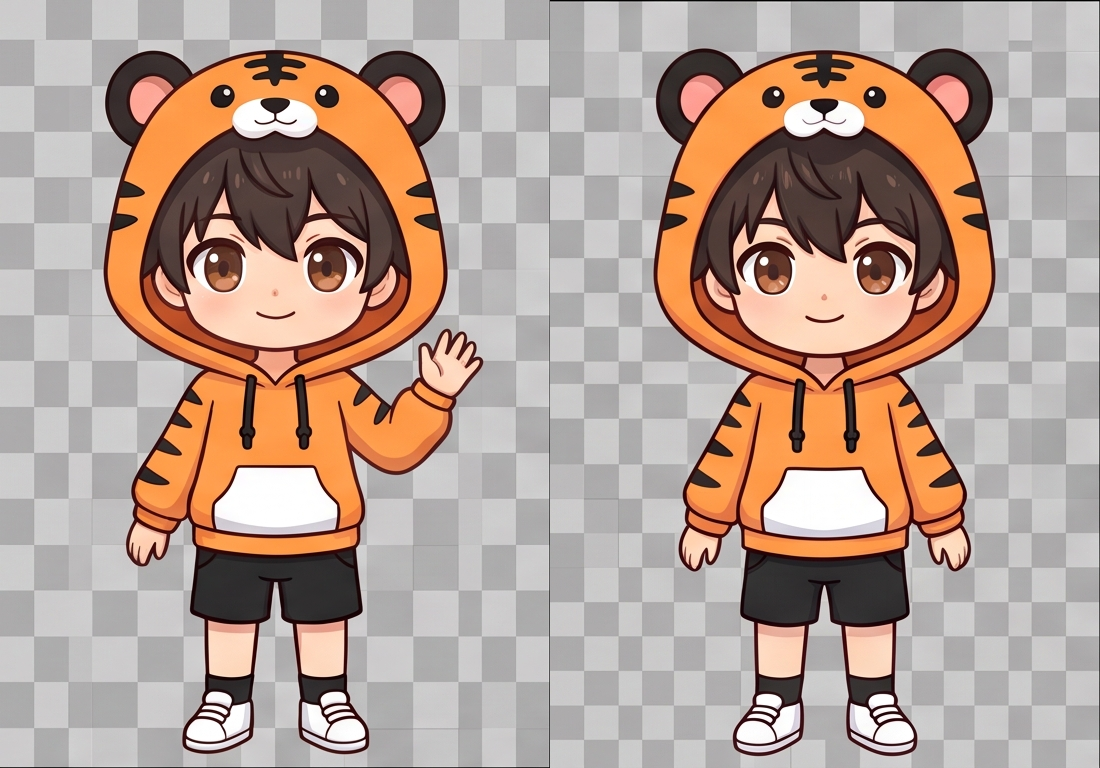
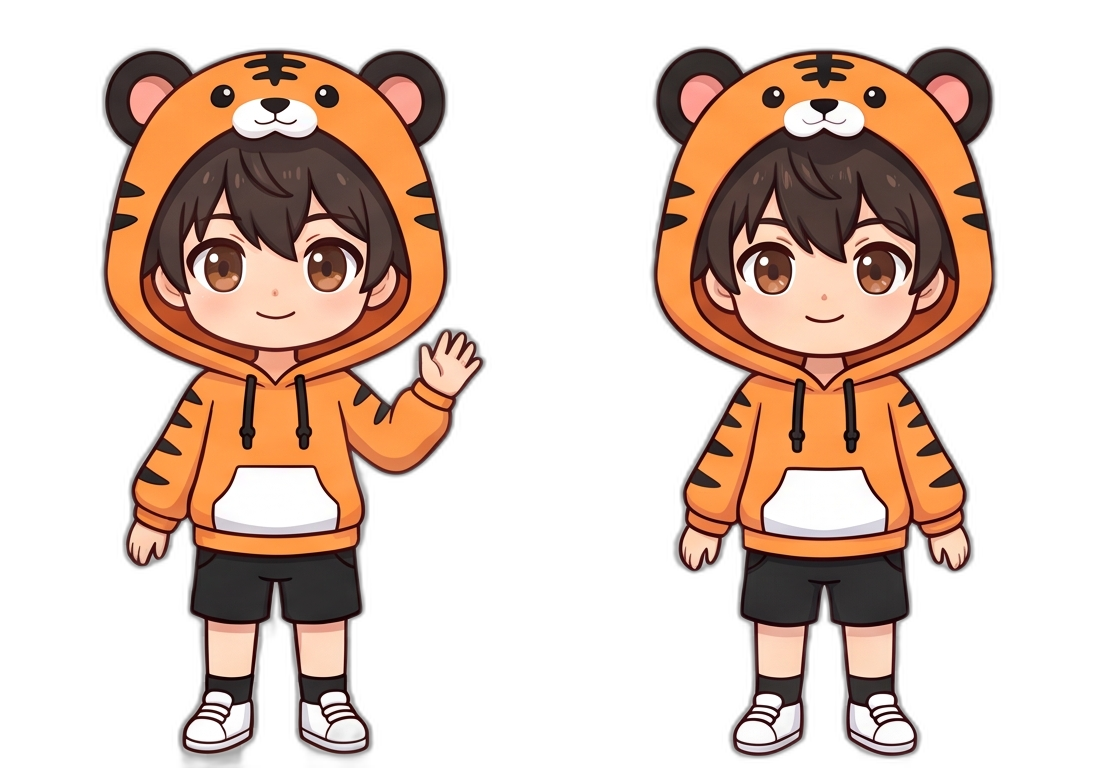
feat: update character idle/wave assets and integrate task status into HomeView companion state

diff --git a/apps/web/src/components/home/HomeView.tsx b/apps/web/src/components/home/HomeView.tsx
@@ -452,20 +452,28 @@ export function HomeView({ data }: { data: DashboardData }) {
                     onClick={() => setIsShopOpen(true)}
                   >
                     {/* Speech Bubble — shows the co-op emoji while one is playing. */}
-                    <div className="mb-1 px-3 py-0.5 bg-white/95 backdrop-blur-md rounded-full text-[10px] font-bold text-amber-900 shadow-xs border border-amber-200/80">
-                      {activeCoop
-                        ? `${COOP_KINDS[activeCoop].emoji} ${data.profile.characterName}`
-                        : timerHabit
-                        ? "✍ Đang học tập..."
-                        : data.profile.characterName}
-                    </div>
-                    <CharacterCompanion
-                      characterId={data.profile.characterId}
-                      action={
-                        myCoopAction ??
-                        (timerHabit || currentAction === "working" ? "working" : "idle")
-                      }
-                    />
+                    {(() => {
+                      const hasInProgressTask = (data.tasks || []).some((t) => t.status === "in_progress");
+                      const isWorking = timerHabit || hasInProgressTask || currentAction === "working";
+                      return (
+                        <>
+                          <div className="mb-1 px-3 py-0.5 bg-white/95 backdrop-blur-md rounded-full text-[10px] font-bold text-amber-900 shadow-xs border border-amber-200/80">
+                            {activeCoop
+                              ? `${COOP_KINDS[activeCoop].emoji} ${data.profile.characterName}`
+                              : isWorking
+                              ? "✍ Đang làm việc..."
+                              : data.profile.characterName}
+                          </div>
+                          <CharacterCompanion
+                            characterId={data.profile.characterId}
+                            action={
+                              myCoopAction ??
+                              (isWorking ? "working" : "idle")
+                            }
+                          />
+                        </>
+                      );
+                    })()}
                   </div>
 
                   {/* The other side of an active visit, standing in the same room. */}
